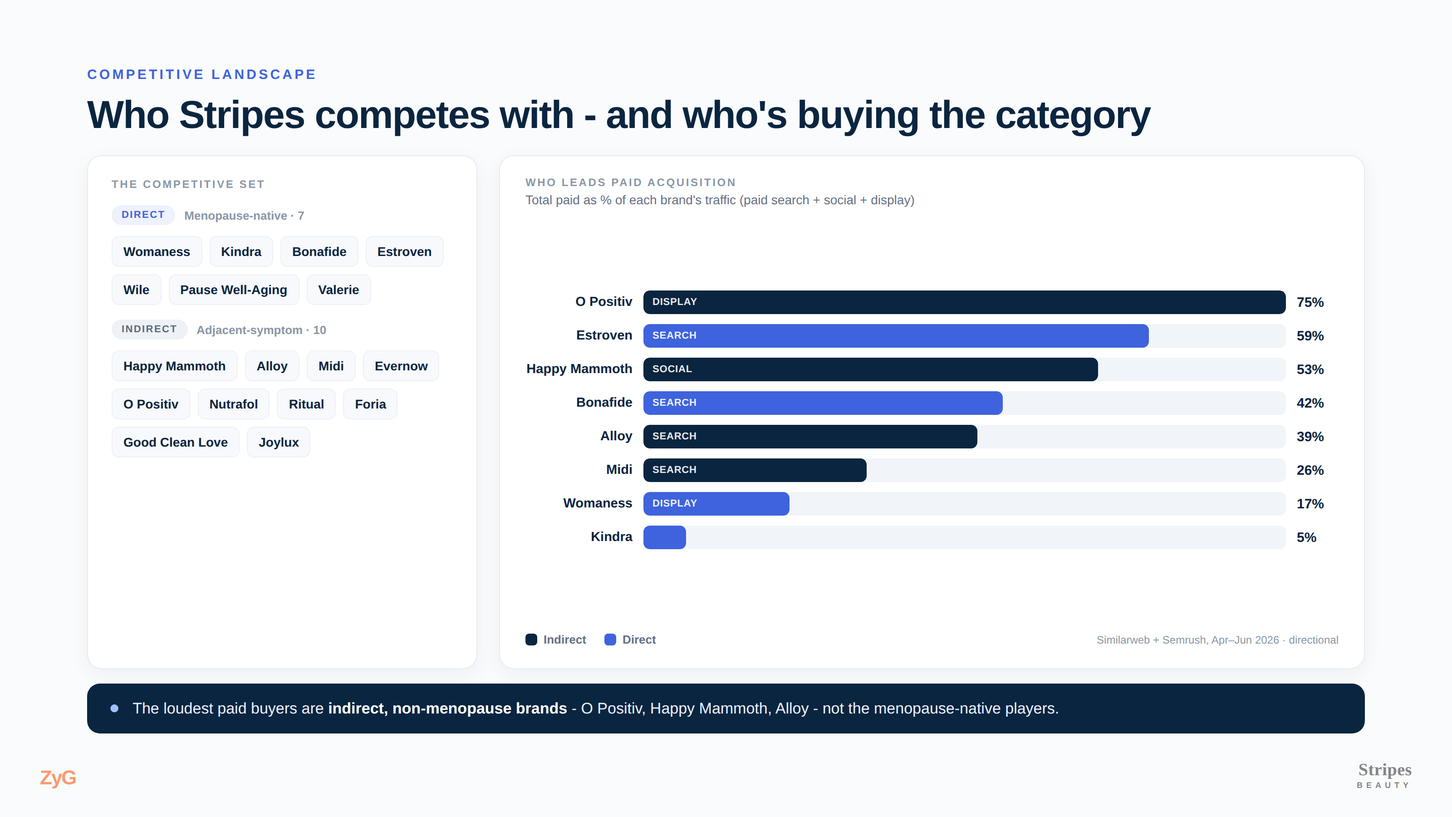
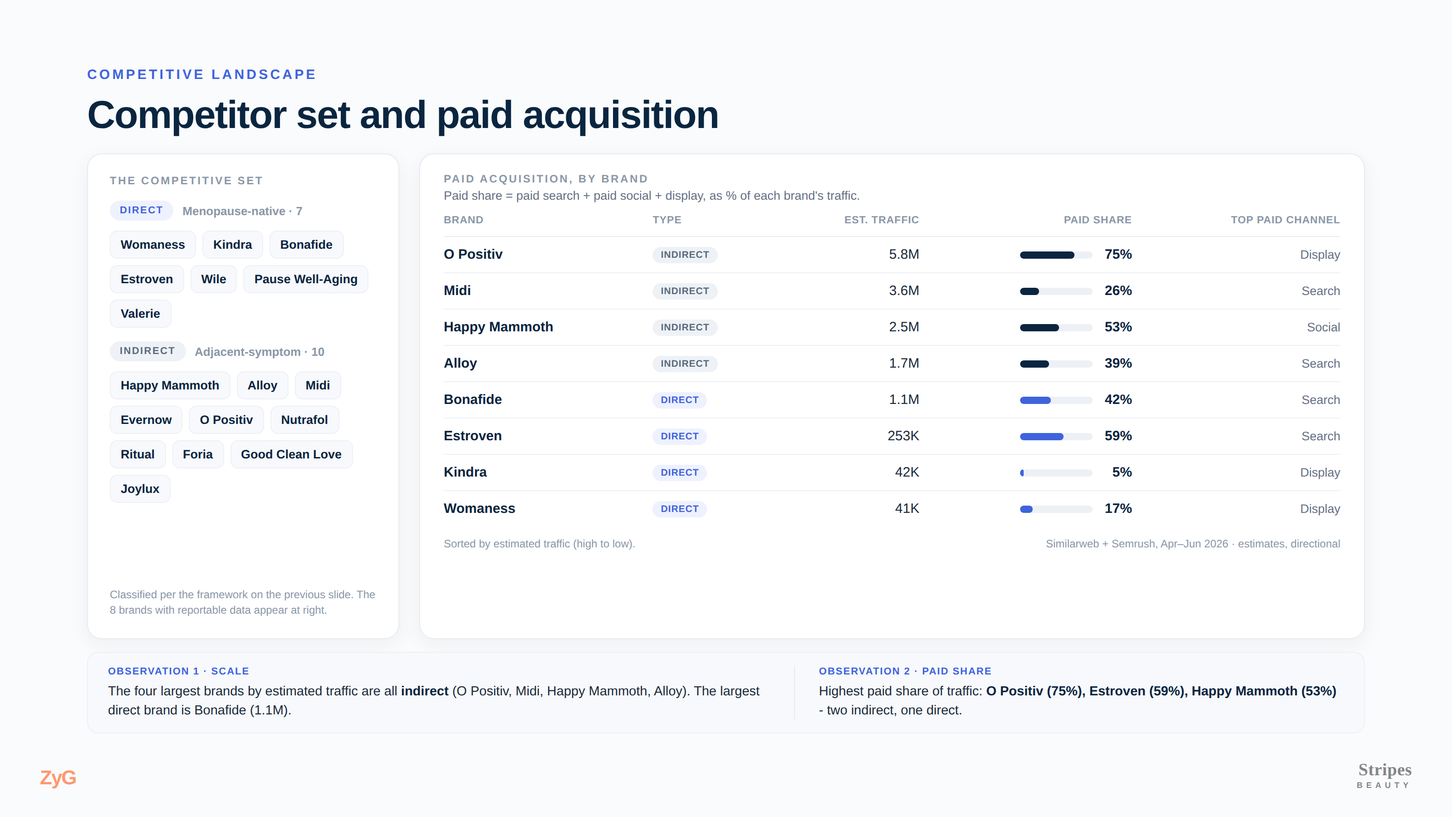
Rewrite Part 1 in evidence-first language
Remove strategic slogans and unsupported claims; tie every headline to on-slide
data. Landscape becomes a precise table (traffic + paid share + top channel).
Insights become concrete observations with data references. Takeaway becomes
observation/implication pairs with inferences qualified. Correct the Stripes
paid-footprint claim (runs Meta ads; below Similarweb/Semrush threshold). Market
slide labels the 'underserved' assertion as Stripes' premise, not a measurement.

Claude-Session: https://claude.ai/code/session_01GoAG3ySswQXo2H1hh5EwTk

diff --git a/diagrams/slides/p1-04-landscape.html b/diagrams/slides/p1-04-landscape.html
@@ -1,43 +1,49 @@
 <!doctype html><html><head><meta charset="utf-8"><link rel="stylesheet" href="style.css">
 <style>
-  .cols{display:flex;gap:24px;margin-top:20px;flex:1;}
-  .set{flex:0 0 430px;padding:24px 26px;display:flex;flex-direction:column;}
-  .paid{flex:1;padding:22px 28px 24px;display:flex;flex-direction:column;}
+  .cols{display:flex;gap:22px;margin-top:18px;flex:1;}
+  .set{flex:0 0 344px;padding:22px 24px;display:flex;flex-direction:column;}
+  .paid{flex:1;padding:20px 26px 22px;display:flex;flex-direction:column;}
   .cap{font-size:12px;font-weight:700;letter-spacing:1.8px;text-transform:uppercase;color:var(--faint);}
-  .grp{margin-top:16px;}
+  .grp{margin-top:15px;}
   .ghd{display:flex;align-items:center;gap:10px;}
   .badge{font-size:11px;font-weight:700;letter-spacing:1.2px;text-transform:uppercase;padding:5px 11px;border-radius:999px;}
   .badge.d{background:var(--blue-soft);color:var(--blue);}
   .badge.i{background:#EEF2F6;color:#5A6B7E;}
   .gc{font-size:13px;color:var(--faint);font-weight:600;}
-  .chips{display:flex;flex-wrap:wrap;gap:8px;margin-top:12px;}
-  .chip{font-size:14px;font-weight:600;color:var(--navy);background:#F7F9FC;border:1px solid var(--line-2);border-radius:8px;padding:8px 12px;}
+  .chips{display:flex;flex-wrap:wrap;gap:7px;margin-top:11px;}
+  .chip{font-size:13.5px;font-weight:600;color:var(--navy);background:#F7F9FC;border:1px solid var(--line-2);border-radius:8px;padding:7px 11px;}
+  .setnote{margin-top:auto;font-size:12px;color:var(--faint);line-height:1.4;padding-top:14px;}
 
-  .paid .sub{font-size:14px;color:var(--muted);margin-top:4px;}
-  .bars{margin-top:16px;display:flex;flex-direction:column;gap:11px;flex:1;justify-content:center;}
-  .bar{display:flex;align-items:center;gap:12px;}
-  .bar .nm{width:118px;font-size:14.5px;font-weight:700;color:var(--navy);text-align:right;flex-shrink:0;}
-  .bar .track{flex:1;height:26px;background:#F1F4F8;border-radius:7px;position:relative;overflow:hidden;}
-  .bar .fill{height:100%;border-radius:7px;display:flex;align-items:center;}
-  .bar .fill.i{background:var(--navy);}
-  .bar .fill.d{background:var(--blue);}
-  .bar .ch{font-size:11px;font-weight:700;letter-spacing:.4px;color:#fff;opacity:.9;padding-left:10px;white-space:nowrap;text-transform:uppercase;}
-  .bar .val{width:46px;font-size:15px;font-weight:700;color:var(--navy);flex-shrink:0;}
-  .legend{display:flex;gap:20px;margin-top:16px;align-items:center;}
-  .lg{display:flex;align-items:center;gap:7px;font-size:13px;color:var(--muted);font-weight:600;}
-  .lg .sw{width:13px;height:13px;border-radius:4px;}
-  .lg .sw.i{background:var(--navy);}
-  .lg .sw.d{background:var(--blue);}
-  .src{font-size:12px;color:var(--faint);margin-left:auto;}
+  .paid .sub{font-size:13.5px;color:var(--muted);margin-top:4px;}
+  table{width:100%;border-collapse:collapse;margin-top:14px;}
+  thead th{font-size:11.5px;font-weight:700;letter-spacing:.5px;color:var(--faint);text-transform:uppercase;text-align:right;padding:0 0 11px;border-bottom:1px solid var(--line);}
+  thead th.l{text-align:left;}
+  tbody td{font-size:15px;padding:10px 0;text-align:right;border-bottom:1px solid var(--line-2);color:var(--ink);}
+  tbody td.l{text-align:left;font-weight:700;color:var(--navy);}
+  tbody tr:last-child td{border-bottom:none;}
+  .ty{display:inline-block;font-size:10.5px;font-weight:700;letter-spacing:.5px;text-transform:uppercase;padding:3px 9px;border-radius:999px;}
+  .ty.i{background:#EEF2F6;color:#5A6B7E;}
+  .ty.d{background:var(--blue-soft);color:var(--blue);}
+  .share{display:flex;align-items:center;justify-content:flex-end;gap:9px;}
+  .share .trk{width:80px;height:8px;background:#EDF1F6;border-radius:4px;overflow:hidden;}
+  .share .fl{height:100%;background:var(--blue);border-radius:4px;}
+  .share .fl.i{background:var(--navy);}
+  .share .vv{width:34px;text-align:right;font-weight:700;color:var(--navy);}
+  .ch{font-size:13.5px;color:var(--muted);}
 
-  .strip{margin-top:16px;background:var(--navy);border-radius:14px;padding:16px 24px;display:flex;align-items:center;gap:14px;}
-  .strip .ic{color:#9FC0FF;font-size:20px;}
-  .strip .t{font-size:17px;color:#EAF1FF;font-weight:500;}
-  .strip .t b{color:#fff;font-weight:700;}
+  .foot-src{display:flex;align-items:center;margin-top:12px;}
+  .foot-src .m{font-size:12px;color:var(--faint);}
+  .foot-src .s{font-size:12px;color:var(--faint);margin-left:auto;}
+
+  .strip{margin-top:14px;background:#F7F9FC;border:1px solid var(--line-2);border-radius:12px;padding:14px 22px;display:flex;gap:26px;}
+  .ob{font-size:14.5px;color:var(--ink);line-height:1.4;}
+  .ob b{color:var(--navy);font-weight:700;}
+  .ob .h{display:block;font-size:11px;font-weight:700;letter-spacing:1px;text-transform:uppercase;color:var(--blue);margin-bottom:4px;}
+  .vl{width:1px;background:var(--line);flex-shrink:0;}
 </style></head><body>
 <div class="slide">
   <div class="kicker">Competitive Landscape</div>
-  <div class="h1">Who Stripes competes with - and who's buying the category</div>
+  <div class="h1">Competitor set and paid acquisition</div>
 
   <div class="cols">
     <div class="set card">
@@ -57,32 +63,38 @@
           <span class="chip">Foria</span><span class="chip">Good Clean Love</span><span class="chip">Joylux</span>
         </div>
       </div>
+      <div class="setnote">Classified per the framework on the previous slide. The 8 brands with reportable data appear at right.</div>
     </div>
 
     <div class="paid card">
-      <div class="cap">Who leads paid acquisition</div>
-      <div class="sub">Total paid as % of each brand's traffic (paid search + social + display)</div>
-      <div class="bars">
-        <div class="bar"><div class="nm">O Positiv</div><div class="track"><div class="fill i" style="width:100%"><span class="ch">Display</span></div></div><div class="val">75%</div></div>
-        <div class="bar"><div class="nm">Estroven</div><div class="track"><div class="fill d" style="width:78.7%"><span class="ch">Search</span></div></div><div class="val">59%</div></div>
-        <div class="bar"><div class="nm">Happy Mammoth</div><div class="track"><div class="fill i" style="width:70.7%"><span class="ch">Social</span></div></div><div class="val">53%</div></div>
-        <div class="bar"><div class="nm">Bonafide</div><div class="track"><div class="fill d" style="width:56%"><span class="ch">Search</span></div></div><div class="val">42%</div></div>
-        <div class="bar"><div class="nm">Alloy</div><div class="track"><div class="fill i" style="width:52%"><span class="ch">Search</span></div></div><div class="val">39%</div></div>
-        <div class="bar"><div class="nm">Midi</div><div class="track"><div class="fill i" style="width:34.7%"><span class="ch">Search</span></div></div><div class="val">26%</div></div>
-        <div class="bar"><div class="nm">Womaness</div><div class="track"><div class="fill d" style="width:22.7%"><span class="ch">Display</span></div></div><div class="val">17%</div></div>
-        <div class="bar"><div class="nm">Kindra</div><div class="track"><div class="fill d" style="width:6.7%"></div></div><div class="val">5%</div></div>
-      </div>
-      <div class="legend">
-        <span class="lg"><span class="sw i"></span>Indirect</span>
-        <span class="lg"><span class="sw d"></span>Direct</span>
-        <span class="src">Similarweb + Semrush, Apr&ndash;Jun 2026 &middot; directional</span>
+      <div class="cap">Paid acquisition, by brand</div>
+      <div class="sub">Paid share = paid search + paid social + display, as % of each brand's traffic.</div>
+      <table>
+        <thead><tr>
+          <th class="l">Brand</th><th class="l">Type</th><th>Est. traffic</th><th>Paid share</th><th>Top paid channel</th>
+        </tr></thead>
+        <tbody>
+          <tr><td class="l">O Positiv</td><td class="l"><span class="ty i">Indirect</span></td><td>5.8M</td><td><div class="share"><div class="trk"><div class="fl i" style="width:75%"></div></div><span class="vv">75%</span></div></td><td class="ch">Display</td></tr>
+          <tr><td class="l">Midi</td><td class="l"><span class="ty i">Indirect</span></td><td>3.6M</td><td><div class="share"><div class="trk"><div class="fl i" style="width:26%"></div></div><span class="vv">26%</span></div></td><td class="ch">Search</td></tr>
+          <tr><td class="l">Happy Mammoth</td><td class="l"><span class="ty i">Indirect</span></td><td>2.5M</td><td><div class="share"><div class="trk"><div class="fl i" style="width:53%"></div></div><span class="vv">53%</span></div></td><td class="ch">Social</td></tr>
+          <tr><td class="l">Alloy</td><td class="l"><span class="ty i">Indirect</span></td><td>1.7M</td><td><div class="share"><div class="trk"><div class="fl i" style="width:39%"></div></div><span class="vv">39%</span></div></td><td class="ch">Search</td></tr>
+          <tr><td class="l">Bonafide</td><td class="l"><span class="ty d">Direct</span></td><td>1.1M</td><td><div class="share"><div class="trk"><div class="fl" style="width:42%"></div></div><span class="vv">42%</span></div></td><td class="ch">Search</td></tr>
+          <tr><td class="l">Estroven</td><td class="l"><span class="ty d">Direct</span></td><td>253K</td><td><div class="share"><div class="trk"><div class="fl" style="width:59%"></div></div><span class="vv">59%</span></div></td><td class="ch">Search</td></tr>
+          <tr><td class="l">Kindra</td><td class="l"><span class="ty d">Direct</span></td><td>42K</td><td><div class="share"><div class="trk"><div class="fl" style="width:5%"></div></div><span class="vv">5%</span></div></td><td class="ch">Display</td></tr>
+          <tr><td class="l">Womaness</td><td class="l"><span class="ty d">Direct</span></td><td>41K</td><td><div class="share"><div class="trk"><div class="fl" style="width:17%"></div></div><span class="vv">17%</span></div></td><td class="ch">Display</td></tr>
+        </tbody>
+      </table>
+      <div class="foot-src">
+        <span class="m">Sorted by estimated traffic (high to low).</span>
+        <span class="s">Similarweb + Semrush, Apr&ndash;Jun 2026 &middot; estimates, directional</span>
       </div>
     </div>
   </div>
 
   <div class="strip">
-    <span class="ic">&#9679;</span>
-    <div class="t">The loudest paid buyers are <b>indirect, non-menopause brands</b> - O Positiv, Happy Mammoth, Alloy - not the menopause-native players.</div>
+    <div class="ob"><span class="h">Observation 1 &middot; scale</span>The four largest brands by estimated traffic are all <b>indirect</b> (O Positiv, Midi, Happy Mammoth, Alloy). The largest direct brand is Bonafide (1.1M).</div>
+    <div class="vl"></div>
+    <div class="ob"><span class="h">Observation 2 &middot; paid share</span>Highest paid share of traffic: <b>O Positiv (75%), Estroven (59%), Happy Mammoth (53%)</b> - two indirect, one direct.</div>
   </div>
 
   <div class="foot"><div class="zyg">ZyG</div><div class="stripes"><div class="word">Stripes</div><div class="beauty">BEAUTY</div></div></div>

diff --git a/diagrams/slides/p1-06-takeaway.html b/diagrams/slides/p1-06-takeaway.html
@@ -1,47 +1,56 @@
 <!doctype html><html><head><meta charset="utf-8"><link rel="stylesheet" href="style.css">
 <style>
-  .hero{margin-top:26px;font-size:34px;font-weight:700;color:var(--navy);letter-spacing:-.6px;line-height:1.25;max-width:1180px;}
-  .hero b{color:var(--blue);}
-  .imps{display:flex;gap:22px;margin-top:34px;}
-  .imp{flex:1;padding:26px 28px 28px;}
-  .imp .ic{width:42px;height:42px;border-radius:11px;background:var(--blue-soft);display:flex;align-items:center;justify-content:center;color:var(--blue);}
-  .imp .ic svg{width:22px;height:22px;}
-  .imp h3{font-size:18px;font-weight:700;color:var(--navy);margin-top:16px;line-height:1.25;}
-  .imp p{font-size:15px;color:var(--muted);line-height:1.5;margin-top:9px;}
-  .imp p b{color:var(--navy);font-weight:700;}
+  .imps{display:flex;gap:22px;margin-top:30px;align-items:stretch;}
+  .imp{flex:1;padding:26px 28px 28px;display:flex;flex-direction:column;}
+  .imp .obl{font-size:11px;font-weight:700;letter-spacing:1.4px;text-transform:uppercase;color:var(--faint);}
+  .imp .obt{font-size:16px;color:var(--navy);line-height:1.45;margin-top:9px;font-weight:600;}
+  .imp .obt b{font-weight:800;}
+  .imp .impl{margin-top:auto;padding-top:18px;border-top:1px solid var(--line-2);}
+  .imp .impl .l{font-size:11px;font-weight:700;letter-spacing:1.4px;text-transform:uppercase;color:var(--blue);}
+  .imp .impl .t{font-size:15.5px;color:var(--muted);line-height:1.5;margin-top:8px;}
+  .imp .impl .t b{color:var(--navy);font-weight:700;}
 
-  .next{margin-top:30px;background:var(--navy);border-radius:16px;padding:22px 30px;display:flex;align-items:center;gap:20px;}
+  .next{margin-top:28px;background:var(--navy);border-radius:16px;padding:22px 30px;display:flex;align-items:center;gap:20px;}
   .next .lbl{font-size:12px;font-weight:700;letter-spacing:1.8px;text-transform:uppercase;color:#9FC0FF;flex-shrink:0;}
-  .next .t{font-size:19px;color:#EAF1FF;font-weight:500;line-height:1.45;}
+  .next .t{font-size:18px;color:#EAF1FF;font-weight:500;line-height:1.45;}
   .next .t b{color:#fff;font-weight:700;}
   .next .arr{margin-left:auto;color:#9FC0FF;font-size:26px;font-weight:700;flex-shrink:0;}
 </style></head><body>
 <div class="slide">
-  <div class="kicker">Strategic Takeaway</div>
-  <div class="h1">An open lane in a category no one is defending</div>
-  <div class="hero">Real, unmet demand exists - but the brands capturing it aren't menopause-native, and the ones that are have <b>stepped back from paid</b>. That leaves a clear opening for a focused entrant.</div>
+  <div class="kicker">Implications</div>
+  <div class="h1">What this means for Stripes</div>
+  <div class="lead" style="font-size:17.5px;">Three implications follow from the observations. Each is an inference from the data shown, not a measured result.</div>
 
   <div class="imps">
     <div class="imp card">
-      <div class="ic"><svg viewBox="0 0 24 24" fill="none" stroke="currentColor" stroke-width="2" stroke-linecap="round" stroke-linejoin="round"><path d="M3 3v18h18"/><path d="M7 14l4-4 3 3 5-6"/></svg></div>
-      <h3>Demand is proven, attention is up for grabs</h3>
-      <p>Adjacent brands spend heavily against menopause intent - <b>the market is real</b> and currently under-owned.</p>
+      <div class="obl">Observed</div>
+      <div class="obt">Stripes' estimated traffic (<b>~11K/mo</b>) is below every brand in the set; the smallest measured is ~41K.</div>
+      <div class="impl">
+        <div class="l">Implication</div>
+        <div class="t">The near-term constraint is likely <b>top-of-funnel traffic</b>, not competitive share.</div>
+      </div>
     </div>
     <div class="imp card">
-      <div class="ic"><svg viewBox="0 0 24 24" fill="none" stroke="currentColor" stroke-width="2" stroke-linecap="round" stroke-linejoin="round"><path d="M12 2l3 6 6 1-4.5 4 1 6-5.5-3-5.5 3 1-6L3 9l6-1z"/></svg></div>
-      <h3>The direct set has vacated paid</h3>
-      <p>Menopause-native competitors barely invest in performance - a <b>differentiated way in</b> for a brand that does.</p>
+      <div class="obl">Observed</div>
+      <div class="obt">Across the set, the leading paid channel is <b>split</b> across search, display, and social.</div>
+      <div class="impl">
+        <div class="l">Implication</div>
+        <div class="t">No single channel is forced by the category - <b>multiple are worth testing</b>.</div>
+      </div>
     </div>
     <div class="imp card">
-      <div class="ic"><svg viewBox="0 0 24 24" fill="none" stroke="currentColor" stroke-width="2" stroke-linecap="round" stroke-linejoin="round"><path d="M13 2L3 14h7l-1 8 10-12h-7z"/></svg></div>
-      <h3>Stripes starts from near-zero</h3>
-      <p>At ~11K monthly visits with almost no paid footprint, growth here is <b>pure headroom</b>, not a fight for share.</p>
+      <div class="obl">Observed</div>
+      <div class="obt">Direct-brand paid share ranges <b>5%&ndash;59%</b>; only two of the measured menopause-native brands invest heavily.</div>
+      <div class="impl">
+        <div class="l">Implication</div>
+        <div class="t">Paid presence from direct competitors is <b>uneven, not saturated</b>.</div>
+      </div>
     </div>
   </div>
 
   <div class="next">
-    <span class="lbl">What's next</span>
-    <div class="t">Capturing this demand starts with a <b>hero-product launch built for acquisition</b> - the focus of Part 2.</div>
+    <span class="lbl">Next</span>
+    <div class="t">Part 2 covers the hero-product launch - <b>The Inside Addition</b> - and how it is set up for acquisition.</div>
     <span class="arr">&#8594;</span>
   </div>
 

diff --git a/diagrams/slides/p1-02-market.html b/diagrams/slides/p1-02-market.html
@@ -11,20 +11,23 @@
   .cols{display:flex;gap:24px;margin-top:22px;align-items:stretch;}
   .col{flex:1;padding:30px 32px 34px;}
   .col .cap{font-size:12px;font-weight:700;letter-spacing:1.8px;text-transform:uppercase;color:var(--faint);}
-  .col h3{font-size:23px;font-weight:700;color:var(--navy);margin-top:12px;line-height:1.2;}
+  .col h3{font-size:22px;font-weight:700;color:var(--navy);margin-top:12px;line-height:1.2;}
   .col .big{font-size:40px;font-weight:800;color:var(--navy);letter-spacing:-1px;margin-top:8px;}
   .rowlist{margin-top:18px;display:flex;flex-direction:column;gap:14px;}
   .rl{display:flex;gap:13px;align-items:flex-start;}
   .rl .dot{width:8px;height:8px;border-radius:50%;background:var(--blue);margin-top:8px;flex-shrink:0;}
   .rl .t{font-size:16px;color:var(--ink);line-height:1.45;}
   .rl .t b{color:var(--navy);font-weight:700;}
-  .tags{display:flex;flex-wrap:wrap;gap:8px;margin-top:18px;}
+  .lbl{font-size:12px;font-weight:700;letter-spacing:.4px;color:var(--faint);margin-top:20px;text-transform:uppercase;}
+  .tags{display:flex;flex-wrap:wrap;gap:8px;margin-top:12px;}
   .tags .tg{font-size:13.5px;color:#4E6178;background:#F2F5F9;border:1px solid var(--line-2);border-radius:999px;padding:6px 13px;font-weight:500;}
+  .premise{margin-top:18px;font-size:13.5px;color:var(--muted);line-height:1.45;border-left:3px solid var(--line);padding-left:12px;}
+  .premise b{color:var(--navy);font-weight:700;}
 </style></head><body>
 <div class="slide">
   <div class="kicker">Market Overview</div>
-  <div class="h1">A large, underserved life stage</div>
-  <div class="lead" style="font-size:18px;">Menopause is a universal, multi-year transition that healthcare and beauty have historically overlooked - and the customer knows it.</div>
+  <div class="h1">Category and target customer</div>
+  <div class="lead" style="font-size:18px;">How Stripes is positioned, and the customer definition used throughout this analysis.</div>
 
   <div class="posbar">
     <div class="pos"><span class="k">Vertical</span><span class="v">Women's Health</span></div>
@@ -32,31 +35,31 @@
     <div class="pos"><span class="k">Category</span><span class="v">Menopause Wellness</span></div>
     <span class="sep">&rsaquo;</span>
     <div class="pos brand-pos"><span class="k">Stripes</span><span class="v">A life-stage brand</span></div>
-    <span class="tail">- built for the whole journey, not a single symptom.</span>
+    <span class="tail">- positioned across perimenopause to post-menopause, not a single symptom.</span>
   </div>
 
   <div class="cols">
     <div class="col card">
-      <div class="cap">The market</div>
-      <h3>An overlooked category inside Women's Health</h3>
+      <div class="cap">Category &amp; positioning</div>
+      <h3>Menopause wellness, within Women's Health</h3>
       <div class="rowlist">
         <div class="rl"><span class="dot"></span><div class="t"><b>A multi-year life stage</b> - perimenopause through post-menopause, not a one-off event.</div></div>
-        <div class="rl"><span class="dot"></span><div class="t"><b>Affects every woman</b>, yet historically dismissed by both healthcare and beauty.</div></div>
       </div>
+      <div class="lbl">Commonly associated symptoms</div>
       <div class="tags">
         <span class="tg">Hot flashes</span><span class="tg">Poor sleep</span><span class="tg">Brain fog</span>
         <span class="tg">Mood</span><span class="tg">Dry skin</span><span class="tg">Intimacy</span>
       </div>
+      <div class="premise"><b>Stripes' premise:</b> this stage is under-addressed by mainstream healthcare and beauty. Treated here as the brand's positioning, not a measured claim.</div>
     </div>
 
     <div class="col card">
-      <div class="cap">Who it's for</div>
+      <div class="cap">Target customer (as defined for this analysis)</div>
       <div class="big">Women 42&ndash;62</div>
       <div class="rowlist">
         <div class="rl"><span class="dot"></span><div class="t">Moving through <b>peri- to post-menopause</b>.</div></div>
-        <div class="rl"><span class="dot"></span><div class="t"><b>Hormone-free matters</b> - many won't, or can't, take hormones.</div></div>
-        <div class="rl"><span class="dot"></span><div class="t">Wants <b>trusted relief that fits everyday life</b>, not another clinic visit.</div></div>
-        <div class="rl"><span class="dot"></span><div class="t"><b>Actively looking</b> for options she can trust - and mostly coming up short.</div></div>
+        <div class="rl"><span class="dot"></span><div class="t"><b>Hormone-free</b> is a core product attribute of the Stripes line.</div></div>
+        <div class="rl"><span class="dot"></span><div class="t">Targeted through <b>everyday, routine-fit</b> products rather than clinical channels.</div></div>
       </div>
     </div>
   </div>

diff --git a/diagrams/slides/p1-05-insights.html b/diagrams/slides/p1-05-insights.html
@@ -1,37 +1,42 @@
 <!doctype html><html><head><meta charset="utf-8"><link rel="stylesheet" href="style.css">
 <style>
-  .row3{display:flex;gap:22px;margin-top:40px;align-items:stretch;}
+  .row3{display:flex;gap:22px;margin-top:36px;align-items:stretch;}
   .ins{flex:1;padding:32px 32px 30px;display:flex;flex-direction:column;}
   .ins .n{font-size:34px;font-weight:800;color:#E4EAF6;line-height:1;letter-spacing:-1px;}
-  .ins h3{font-size:23px;font-weight:700;color:var(--navy);margin-top:14px;line-height:1.22;}
-  .ins p{font-size:16px;color:var(--muted);line-height:1.55;margin-top:14px;}
+  .ins h3{font-size:21px;font-weight:700;color:var(--navy);margin-top:14px;line-height:1.24;}
+  .ins p{font-size:15.5px;color:var(--muted);line-height:1.55;margin-top:13px;}
   .ins p b{color:var(--navy);font-weight:700;}
-  .ins .foot-note{margin-top:22px;padding-top:18px;border-top:1px solid var(--line-2);font-size:14px;font-weight:700;letter-spacing:.2px;color:var(--blue);}
+  .ins .data{margin-top:20px;padding-top:16px;border-top:1px solid var(--line-2);font-size:13px;font-weight:600;letter-spacing:.2px;color:var(--faint);line-height:1.5;}
+  .ins .data b{color:var(--navy);font-weight:700;}
+  .note{margin-top:22px;font-size:14.5px;color:var(--muted);line-height:1.5;background:#F7F9FC;border:1px solid var(--line-2);border-radius:12px;padding:16px 22px;}
+  .note b{color:var(--navy);font-weight:700;}
 </style></head><body>
 <div class="slide">
-  <div class="kicker">Key Insights</div>
-  <div class="h1">What the data tells us</div>
+  <div class="kicker">Key Observations</div>
+  <div class="h1">What the data shows</div>
 
   <div class="row3">
     <div class="ins card">
       <div class="n">01</div>
-      <h3>Outsiders are buying the category's attention</h3>
-      <p>The top paid spenders on menopause intent are <b>adjacent, non-menopause brands</b> - O Positiv, Happy Mammoth, Alloy. Menopause demand is being captured by brands that don't own the space.</p>
-      <div class="foot-note">Demand exists - it's being intercepted.</div>
+      <h3>The largest brands in the set are indirect</h3>
+      <p>By estimated traffic, the four biggest brands are all <b>adjacent-symptom</b> brands, not menopause-native ones. The largest direct brand is smaller than all four.</p>
+      <div class="data">O Positiv 5.8M &middot; Midi 3.6M &middot; Happy Mammoth 2.5M &middot; Alloy 1.7M <b>vs.</b> Bonafide 1.1M</div>
     </div>
     <div class="ins card">
       <div class="n">02</div>
-      <h3>No incumbent owns paid - the lane is open</h3>
-      <p>Each leader wins on a <b>different engine</b> - O Positiv on display, Happy Mammoth on social, Midi and Alloy on search. There's no single playbook to beat, which makes the channel contestable.</p>
-      <div class="foot-note">No dominant player to displace.</div>
+      <h3>No single paid channel leads across the set</h3>
+      <p>The top paid channel differs by brand. <b>Search</b> is most common (4 of 8), with <b>display</b> and <b>social</b> each leading for others.</p>
+      <div class="data">Search: Estroven, Bonafide, Alloy, Midi &middot; Display: O Positiv, Womaness, Kindra &middot; Social: Happy Mammoth</div>
     </div>
     <div class="ins card">
       <div class="n">03</div>
-      <h3>Menopause-native brands have ceded paid</h3>
-      <p>Only <b>Bonafide</b> and <b>Estroven</b> invest meaningfully; the rest lean on SEO, retail and email. The brands most like Stripes are the <b>least visible</b> in performance marketing.</p>
-      <div class="foot-note">The direct set is barely showing up.</div>
+      <h3>Direct brands' paid share varies widely</h3>
+      <p>Among menopause-native brands, paid share of traffic ranges from <b>5% to 59%</b>. Two invest heavily; two barely register.</p>
+      <div class="data">High: Estroven 59%, Bonafide 42% &middot; Low: Womaness 17%, Kindra 5%</div>
     </div>
   </div>
+
+  <div class="note"><b>On Stripes:</b> traffic is below the reliable reporting threshold of Similarweb and Semrush (est. ~11K/month), so it isn't in the table above. Stripes does run paid social today (visible in Meta Ad Library).</div>
 
   <div class="foot"><div class="zyg">ZyG</div><div class="stripes"><div class="word">Stripes</div><div class="beauty">BEAUTY</div></div></div>
 </div>

diff --git a/diagrams/slides/p1-01-divider.html b/diagrams/slides/p1-01-divider.html
@@ -5,7 +5,7 @@
     <div style="border-left:2px solid #E4EAF6;padding-left:46px;">
       <div class="kicker">Part 1</div>
       <div class="h1" style="font-size:62px;max-width:960px;margin-top:16px;">Market &amp; Competitive Landscape</div>
-      <div class="lead" style="font-size:22px;max-width:820px;">Where Stripes plays, who it really competes with, and who is winning paid acquisition today.</div>
+      <div class="lead" style="font-size:22px;max-width:860px;">Category and customer definition, how competitors are scoped, and how they compare on paid acquisition. Sources: Similarweb and Semrush, Apr&ndash;Jun 2026.</div>
     </div>
   </div>
   <div class="foot"><div class="zyg">ZyG</div><div class="stripes"><div class="word">Stripes</div><div class="beauty">BEAUTY</div></div></div>
